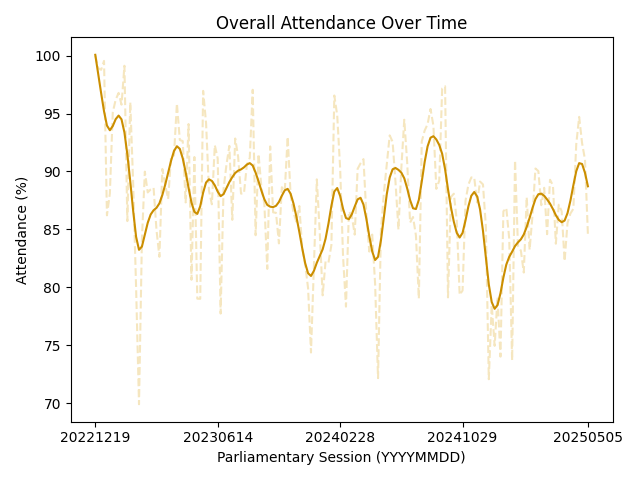
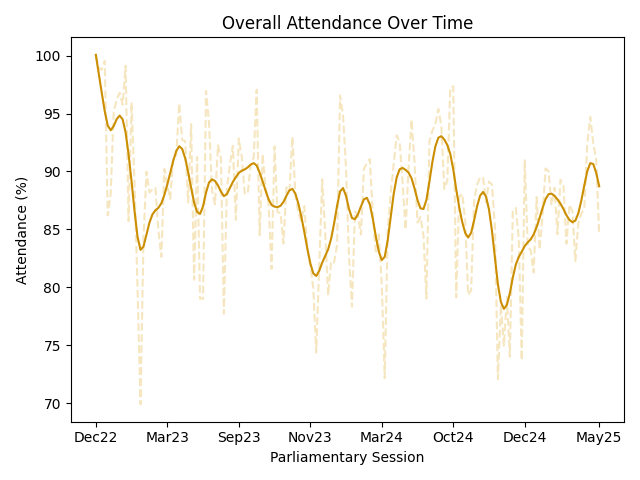
plot update time format

diff --git a/plot.py b/plot.py
@@ -136,10 +136,10 @@ def main():
     ax.plot(x, atten.sum(axis=1), '--', color='#DB9E0040')
     a__ = make_smoothing_spline(x, atten.sum(axis=1), lam=10)(x)
     ax.plot(x, a__, color='#CB8E00FF')
-    stick = np.linspace(0, mps['session'].shape[0] - 1, 5).astype(int)
-    ax.set_xticks(stick, mps['session'][stick])
+    stick = np.linspace(0, mps['session'].shape[0] - 1, 8).astype(int)
+    ax.set_xticks(stick, [datetime.strptime(str(tick), '%Y%m%d').strftime('%b%y') for tick in mps['session'][stick]])
     ax.set_ylabel('Attendance (%)')
-    ax.set_xlabel('Parliamentary Session (YYYYMMDD)')
+    ax.set_xlabel('Parliamentary Session')
     ax.set_title('Overall Attendance Over Time')
     # handles, labels = ax.get_legend_handles_labels()
     # ax.legend(handles[::-1], labels[::-1], loc='center right')
